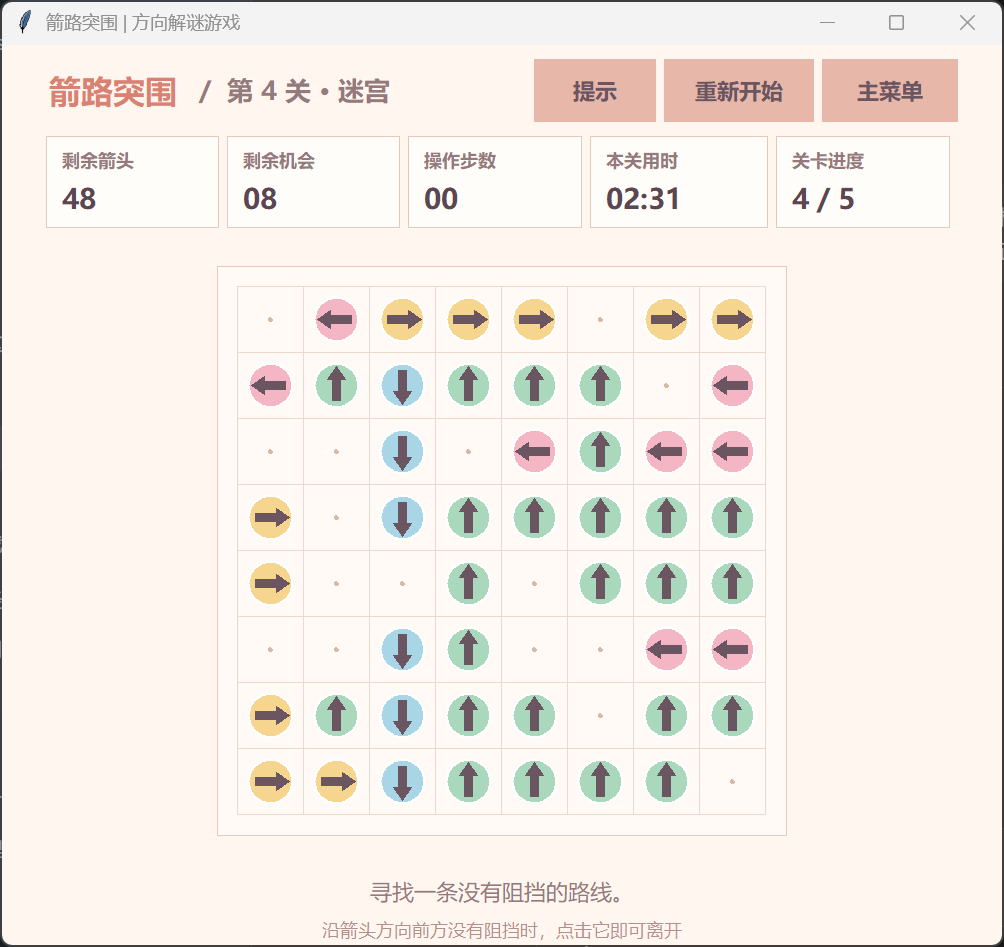
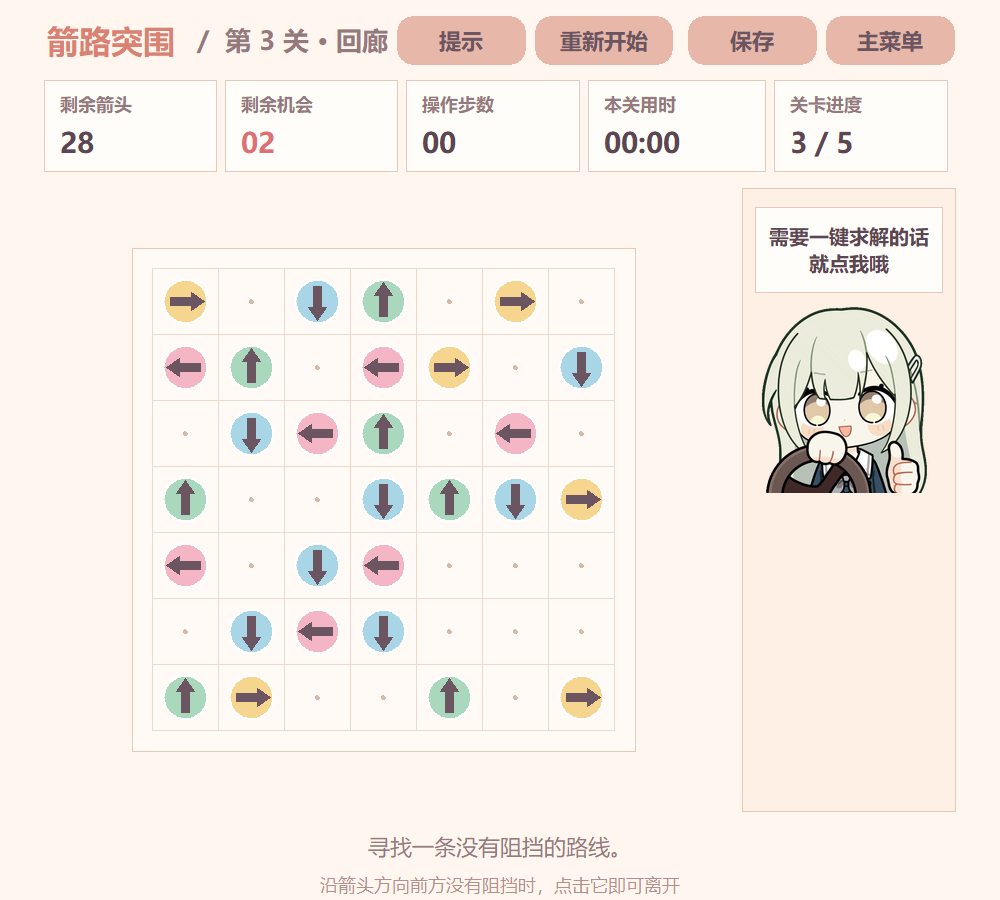
更新最新游戏截图和项目说明

diff --git a/README.md b/README.md
@@ -6,13 +6,13 @@ Arrow Escape（箭路突围）
 
 ## 游戏简介
 
-这是一个基于方向判断和消除顺序的解谜小游戏。棋盘中会随机分布不同方向的箭头，玩家需要判断每支箭头前方是否有其他箭头阻挡，按照合适的顺序点击它们，使所有箭头离开棋盘。
+这是一个基于方向判断和消除顺序的解谜小游戏。棋盘中会随机分布不同方向的箭头，玩家需要判断每支箭头前方是否有其他箭头阻挡，按照合适的顺序点击它们，使所有箭头离开棋盘。游戏的核心是观察箭头方向、寻找当前可以移出的箭头，并逐步打开后续路线。
 
 游戏共有 5 个关卡。第一关用于熟悉基本规则，从第二关开始，棋盘会逐渐扩大，箭头数量增加，箭头位置和方向也会打乱，关卡中会出现更多交叉阻挡关系。每关都有独立计时器，通关后会根据关卡难度、用时和误点次数计算评分。
 
 主界面提供继续游戏和选择关卡功能。游戏过程中可以手动保存进度，关闭窗口时也会自动保存。计时器使用独立的单调时钟计算，不会因为箭头飞行动画或阻挡反馈而暂停。
 
-项目整体采用暖色马卡龙风格，使用中文界面。箭头被阻挡时会显示路径、碰撞位置和抖动反馈；箭头成功移出棋盘时会播放飞出动画，并配有飞出和碰撞音效。通关和失败页面会播放对应的 GIF 动画，并配有相应提示音。游戏界面右侧提供可点击的 AI 角色：初始状态会显示提示语，点击角色后进入求解状态，完成后显示成功动画，再进入结算页面。
+项目整体采用暖色马卡龙风格，使用中文界面。箭头被阻挡时会显示路径、碰撞位置和抖动反馈；箭头成功移出棋盘时会播放飞出动画，并配有飞出和碰撞音效。通关和失败页面会播放对应的 GIF 动画，并配有相应提示音。游戏界面右侧放置了可点击的 AI 角色：初始状态会显示提示语，点击角色后会逐步执行当前可行的箭头，完成后显示成功动画，再进入结算页面。
 
 最大化窗口或按 `F11` 进入全屏后，主界面、关卡选择、游戏棋盘和结算页面会按屏幕可用空间等比例放大并保持居中；退出全屏后恢复原来的窗口布局。
 
@@ -78,11 +78,11 @@ python -m PyInstaller --noconfirm --clean --onefile --windowed --name ArrowEscap
 
 ## 游戏截图
 
-游戏进行界面如下，画面中可以看到关卡名称、剩余箭头、剩余机会、操作步数、计时器和棋盘：
+下面是当前版本的游戏进行界面。截图展示了第 3 关的棋盘、关卡信息、计时器、剩余机会、圆角操作按钮，以及右侧的 AI 角色：
 
 ![游戏进行界面](screenshots/gameplay.png)
 
-项目中的 `assets` 文件夹保存了通关、失败和 AI 角色使用的 GIF 动画及四种游戏音效，`dist/ArrowEscape.exe` 是可以直接启动的 Windows 版本，`main.py` 是游戏源代码。
+项目中的 `assets` 文件夹保存了通关、失败和 AI 角色使用的 GIF 动画及四种游戏音效，`dist/ArrowEscape.exe` 是可以直接启动的 Windows 版本，`main.py` 是游戏源代码。README 中的截图与当前版本程序同步更新。
 
 保存文件为程序目录下的 `savegame.json`，由游戏自动生成，不需要手动编辑。
 
